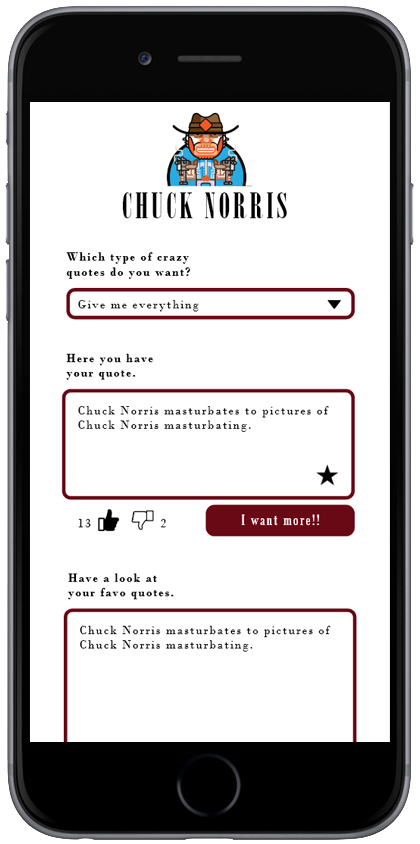
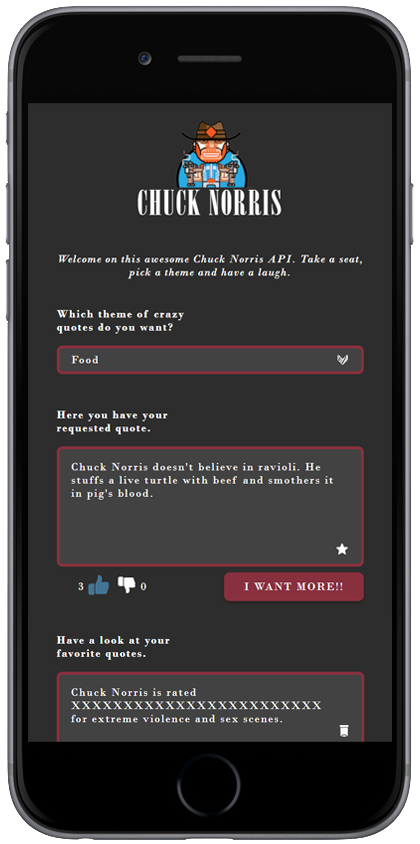
landingspage fixed & delete button added

diff --git a/Site/index.html b/Site/index.html
@@ -13,22 +13,24 @@
 </head>
 
 <body>
-    <div class="o-container c-app">
-        <header>
-            <img class="header-logo" src="./img/Logo.png" alt="Chuck Norris logo">
-            <h1 class="header-title">CHUCK NORRIS</h1>
-        </header>
-        <div class="c-subtitle">
-            <label for="categories" class="u-bold">Which type of crazy quotes do you want?</label>
-        </div>
-        <span class="c-custom-select">
-            <select class="c-form__select u-margin-bottom" name="categories" id="categories">
-                <option value="everything">Give me everything</option>
-            </select>
-            <svg class="c-custom-select__symbol" version="1.1" id="Capa_1" xmlns="http://www.w3.org/2000/svg"
-                xmlns:xlink="http://www.w3.org/1999/xlink" x="0px" y="0px" width="42.624px" height="42.625px"
-                viewBox="0 0 42.624 42.625" style="enable-background:new 0 0 42.624 42.625;" xml:space="preserve">
-                <path d="M38.259,1.387c-0.146,0.078-0.242,0.146-0.302,0.203c-0.003,0.003-0.011,0.006-0.014,0.009
+    <div class="o-container">
+        <div class="c-app">
+            <header>
+                <img class="header-logo" src="./img/Logo.png" alt="Chuck Norris logo">
+                <h1 class="header-title">CHUCK NORRIS</h1>
+            </header>
+            <p class="c-intro">Welcome on this awesome Chuck Norris API. Take a seat, pick a theme and have a laugh.</p>
+            <div class="c-subtitle">
+                <label for="categories" class="u-bold">Which theme of crazy quotes do you want?</label>
+            </div>
+            <span class="c-custom-select u-margin-bottom-sm">
+                <select class="c-form__select" name="categories" id="categories">
+                    <option value="everything">Give me everything</option>
+                </select>
+                <svg class="c-custom-select__symbol" version="1.1" id="Capa_1" xmlns="http://www.w3.org/2000/svg"
+                    xmlns:xlink="http://www.w3.org/1999/xlink" x="0px" y="0px" width="42.624px" height="42.625px"
+                    viewBox="0 0 42.624 42.625" style="enable-background:new 0 0 42.624 42.625;" xml:space="preserve">
+                    <path d="M38.259,1.387c-0.146,0.078-0.242,0.146-0.302,0.203c-0.003,0.003-0.011,0.006-0.014,0.009
 			c-4.34,4.343-8.68,8.686-13.02,13.027c-0.952,0.952-1.905,1.905-2.857,2.858c-0.992,0.993-0.4,0.594-0.656,0.337
 			c-2.052-2.053-4.104-4.104-6.155-6.157c-2.611-2.612-5.224-5.227-7.836-7.84C6.62,3.026,4.917,0.574,3.531,0.712
 			C-1.565,1.219,0.354,8.444,0.354,12.14c0,3.001,0,6.002,0,9.003c0,1.549,1.934,2.85,2.892,3.809
@@ -66,82 +68,83 @@
 			c1.189-2.427,2.391-4.847,3.61-7.257C40.429,18.982,40.429,19.684,40.429,20.386z M40.429,14.158
 			c-2.664,5.132-5.231,10.317-7.757,15.526c-1.027,1.029-2.058,2.059-3.086,3.088c0.172-0.353,0.359-0.705,0.522-0.959
 			c3.83-6.004,7.205-12.301,10.32-18.725C40.429,13.445,40.429,13.801,40.429,14.158z" />
-            </svg>
+                </svg>
 
-        </span>
-        <div class="c-subtitle">
-            <p for="text-field" class="u-bold">Here you have your requested quote.</p>
-        </div>
-        <div class="c-text-field c-text-field__response u-margin-bottons-xs">
-            <p id="quote-field"></p>
-            <div class="c-text-field__star">
-                <input class="o-hide-accessible c-like__input" type="checkbox" id="star">
-                <label class="c-like__label" for="star">
-                    <svg class="c-like__symbol" height="1rem" width="1rem" viewBox="0 -10 511.98685 511"
-                        xmlns="http://www.w3.org/2000/svg">
-                        <path
-                            d="m510.652344 185.902344c-3.351563-10.367188-12.546875-17.730469-23.425782-18.710938l-147.773437-13.417968-58.433594-136.769532c-4.308593-10.023437-14.121093-16.511718-25.023437-16.511718s-20.714844 6.488281-25.023438 16.535156l-58.433594 136.746094-147.796874 13.417968c-10.859376 1.003906-20.03125 8.34375-23.402344 18.710938-3.371094 10.367187-.257813 21.738281 7.957031 28.90625l111.699219 97.960937-32.9375 145.089844c-2.410156 10.667969 1.730468 21.695313 10.582031 28.09375 4.757813 3.4375 10.324219 5.1875 15.9375 5.1875 4.839844 0 9.640625-1.304687 13.949219-3.882813l127.46875-76.183593 127.421875 76.183593c9.324219 5.609376 21.078125 5.097657 29.910156-1.304687 8.855469-6.417969 12.992187-17.449219 10.582031-28.09375l-32.9375-145.089844 111.699219-97.941406c8.214844-7.1875 11.351563-18.539063 7.980469-28.925781zm0 0" />
-                    </svg>
-                </label>
+            </span>
+            <div class="c-subtitle">
+                <p for="text-field" class="u-bold">Here you have your requested quote.</p>
             </div>
-        </div>
-        <div class="c-form__textarea-grid u-margin-bottom">
-            <p class="c-form__like-text" id="likeText">
-                
-            </p>
-            <div class="c-form__grid-like">
-                <input class="o-hide-accessible c-like__input" type="checkbox" id="like">
-                <label class="c-like__label" for="like">
-                    <svg class="c-like__symbol" version="1.1" id="Capa_1" xmlns="http://www.w3.org/2000/svg"
-                        xmlns:xlink="http://www.w3.org/1999/xlink" x="0px" y="0px" viewBox="0 0 512 512"
-                        style="enable-background:new 0 0 512 512;" xml:space="preserve">
-                        <g>
-                            <path d="M53.333,224C23.936,224,0,247.936,0,277.333V448c0,29.397,23.936,53.333,53.333,53.333h64
-			                        c12.011,0,23.061-4.053,32-10.795V224H53.333z" />
-                        </g>
-                        <g>
+            <div class="c-text-field c-text-field__response u-margin-bottons-xs">
+                <p id="quote-field"></p>
+                <div class="c-text-field__star">
+                    <input class="o-hide-accessible c-like__input" type="checkbox" id="star">
+                    <label class="c-like__label" for="star">
+                        <svg class="c-like__symbol" height="1rem" width="1rem" viewBox="0 -10 511.98685 511"
+                            xmlns="http://www.w3.org/2000/svg">
                             <path
-                                d="M512,304c0-12.821-5.077-24.768-13.888-33.579c9.963-10.901,15.04-25.515,13.653-40.725
+                                d="m510.652344 185.902344c-3.351563-10.367188-12.546875-17.730469-23.425782-18.710938l-147.773437-13.417968-58.433594-136.769532c-4.308593-10.023437-14.121093-16.511718-25.023437-16.511718s-20.714844 6.488281-25.023438 16.535156l-58.433594 136.746094-147.796874 13.417968c-10.859376 1.003906-20.03125 8.34375-23.402344 18.710938-3.371094 10.367187-.257813 21.738281 7.957031 28.90625l111.699219 97.960937-32.9375 145.089844c-2.410156 10.667969 1.730468 21.695313 10.582031 28.09375 4.757813 3.4375 10.324219 5.1875 15.9375 5.1875 4.839844 0 9.640625-1.304687 13.949219-3.882813l127.46875-76.183593 127.421875 76.183593c9.324219 5.609376 21.078125 5.097657 29.910156-1.304687 8.855469-6.417969 12.992187-17.449219 10.582031-28.09375l-32.9375-145.089844 111.699219-97.941406c8.214844-7.1875 11.351563-18.539063 7.980469-28.925781zm0 0" />
+                        </svg>
+                    </label>
+                </div>
+            </div>
+            <div class="c-form__textarea-grid u-margin-bottom">
+                <p class="c-form__like-text" id="likeText">
+
+                </p>
+                <div class="c-form__grid-like">
+                    <input class="o-hide-accessible c-like__input" type="checkbox" id="like">
+                    <label class="c-like__label" for="like">
+                        <svg class="c-like__symbol" version="1.1" id="Capa_1" xmlns="http://www.w3.org/2000/svg"
+                            xmlns:xlink="http://www.w3.org/1999/xlink" x="0px" y="0px" viewBox="0 0 512 512"
+                            style="enable-background:new 0 0 512 512;" xml:space="preserve">
+                            <g>
+                                <path d="M53.333,224C23.936,224,0,247.936,0,277.333V448c0,29.397,23.936,53.333,53.333,53.333h64
+			                        c12.011,0,23.061-4.053,32-10.795V224H53.333z" />
+                            </g>
+                            <g>
+                                <path
+                                    d="M512,304c0-12.821-5.077-24.768-13.888-33.579c9.963-10.901,15.04-25.515,13.653-40.725
                                     c-2.496-27.115-26.923-48.363-55.637-48.363H324.352c6.528-19.819,16.981-56.149,16.981-85.333c0-46.272-39.317-85.333-64-85.333
                                     c-22.165,0-37.995,12.48-38.677,12.992c-2.517,2.027-3.989,5.099-3.989,8.341v72.341l-61.44,133.099l-2.56,1.301v228.651
                                     C188.032,475.584,210.005,480,224,480h195.819c23.232,0,43.563-15.659,48.341-37.269c2.453-11.115,1.024-22.315-3.861-32.043
                                     c15.765-7.936,26.368-24.171,26.368-42.688c0-7.552-1.728-14.784-5.013-21.333C501.419,338.731,512,322.496,512,304z" />
-                        </g>
-                    </svg>
-                </label>
-            </div>
-            <div class="c-form__grid-like">
-                <input class="o-hide-accessible c-like__input" type="checkbox" id="dislike">
-                <label class="c-like__label" for="dislike">
-                    <svg class="c-like__symbol" version="1.1" id="Capa_1" xmlns="http://www.w3.org/2000/svg"
-                        xmlns:xlink="http://www.w3.org/1999/xlink" x="0px" y="0px" viewBox="0 0 512 512"
-                        style="enable-background:new 0 0 512 512;" xml:space="preserve">
-                        <g>
-                            <path d="M117.333,10.667h-64C23.936,10.667,0,34.603,0,64v170.667C0,264.064,23.936,288,53.333,288h96V21.461
+                            </g>
+                        </svg>
+                    </label>
+                </div>
+                <div class="c-form__grid-like">
+                    <input class="o-hide-accessible c-like__input" type="checkbox" id="dislike">
+                    <label class="c-like__label" for="dislike">
+                        <svg class="c-like__symbol" version="1.1" id="Capa_1" xmlns="http://www.w3.org/2000/svg"
+                            xmlns:xlink="http://www.w3.org/1999/xlink" x="0px" y="0px" viewBox="0 0 512 512"
+                            style="enable-background:new 0 0 512 512;" xml:space="preserve">
+                            <g>
+                                <path d="M117.333,10.667h-64C23.936,10.667,0,34.603,0,64v170.667C0,264.064,23.936,288,53.333,288h96V21.461
                            C140.395,14.72,129.344,10.667,117.333,10.667z" />
-                        </g>
-                        <g>
-                            <path
-                                d="M512,208c0-18.496-10.581-34.731-26.347-42.667c3.285-6.549,5.013-13.803,5.013-21.333
+                            </g>
+                            <g>
+                                <path
+                                    d="M512,208c0-18.496-10.581-34.731-26.347-42.667c3.285-6.549,5.013-13.803,5.013-21.333
                            c0-18.517-10.603-34.752-26.368-42.688c4.885-9.728,6.315-20.928,3.861-32.043C463.381,47.659,443.051,32,419.819,32H224
                            c-13.995,0-35.968,4.416-53.333,12.608v228.651l2.56,1.301l61.44,133.12V480c0,3.243,1.472,6.315,3.989,8.341
                            c0.683,0.512,16.512,12.992,38.677,12.992c24.683,0,64-39.061,64-85.333c0-29.184-10.453-65.515-16.981-85.333h131.776
                            c28.715,0,53.141-21.248,55.637-48.363c1.387-15.211-3.691-29.824-13.653-40.725C506.923,232.768,512,220.821,512,208z" />
-                        </g>
-                    </svg>
-                </label>
-            </div>
-            <p class="c-form__dislike-text" id="dislikeText">
-                
-            </p>
-            <div></div>
-            <button id="buttonRefresh" type="button" class="c-form__grid-button">I WANT MORE!!</button>
-        </div>
-        <div class="c-subtitle">
-            <p class="u-bold">Have a look at your favorite quotes.</p>
-        </div>
-        <div class="c-text-field" id="favo-quotes">
+                            </g>
+                        </svg>
+                    </label>
+                </div>
+                <p class="c-form__dislike-text" id="dislikeText">
 
+                </p>
+                <div></div>
+                <button id="buttonRefresh" type="button" class="c-form__grid-button">I WANT MORE!!</button>
+            </div>
+            <div class="c-subtitle">
+                <p class="u-bold">Have a look at your favorite quotes.</p>
+            </div>
+            <div class="c-text-field c-text-field__favo" id="favo-quotes">
+
+            </div>
         </div>
     </div>
 </body>

diff --git a/Site/css/style.css b/Site/css/style.css
@@ -4,7 +4,7 @@
     --global-font-fam: 'Bodoni MT', sans-serif;
 
     /* whitespace */
-    --global-baseline: 0.5em;
+    --global-baseline: 0.5rem;
     --global-whitespace-xxs: var(--global-baseline); /* = 8px */
     --global-whitespace-xs: calc(var(--global-baseline) * 2); /* = 16px */
     --global-whitespace-sm: calc(var(--global-baseline) * 3); /* = 24px */
@@ -15,8 +15,8 @@
     /* colors */
     --global-alpa: #89303e;
     --global-alpa-light: #a14252;
-    --global-beta: #3d5a6e;
-    --global-beta-light: #4a98cf;
+    --global-beta: #447494;
+    --global-beta-x-light: #4a98cf;
     --global-gray: #2b2a2a;
     --global-gray-light: #424242;
 
@@ -48,7 +48,7 @@ html{
 
 ::selection {
     color: white;
-    background: var(--global-beta-light);
+    background: var(--global-beta-x-light);
 }
 
 .o-container{
@@ -70,11 +70,12 @@ header{
 
 .header-title{
     font-family: 'Bodoni MT Poster', sans-serif;
+    text-align: center;
     font-size: 3em;
     font-weight: 400;
     line-height: 0.9em;
     margin-top: 0;
-    margin-bottom: var(--global-whitespace-sm);
+    margin-bottom: var(--global-whitespace-md);
     letter-spacing: 0.05em;
 }
 
@@ -114,6 +115,13 @@ header{
         margin-top: 3em;
         margin-bottom: 3em;
     }
+}
+
+.c-intro{
+    text-align: center;
+    margin-bottom: var(--global-whitespace-lg);
+    letter-spacing: 1px;
+    font-style: italic;
 }
 
 .c-subtitle{
@@ -201,12 +209,37 @@ header{
     align-items: center;
 }
 
+.c-text-field__favo{
+    display: grid;
+    grid-template-columns: auto 1rem;
+    column-gap: 0.5rem;
+}
+
+.c-field__favo-div{
+    display: flex;
+    align-items: center;
+    justify-content: center;
+}
+
+.c-field__favo-button{
+    padding: 0;
+    margin: 0;
+    background-color: inherit;
+    outline: none;
+    border: none;
+    cursor: pointer;
+    transition: var(--global-transition)
+}
+
+.c-field__favo-button:focus {
+    fill: var(--global-beta);
+}
+
 /* Like button */
 
 .c-like__symbol {
 	position: relative;
 	width: 1.5rem;
-	fill: var( --global-color-neutral-x-light );
 	transform: scale(1);
 	transition: transform .5s cubic-bezier(0.175, 0.885, 0.32, 2.275);
 	will-change: transform;
@@ -259,9 +292,13 @@ header{
 }
 
 .u-margin-bottom{
-    margin-bottom: 3em;
+    margin-bottom: 4rem;
+}
+
+.u-margin-bottom-sm{
+    margin-bottom: 3rem;
 }
 
 .u-margin-bottons-xs{
-    margin-bottom: 0.5em;
+    margin-bottom: 0.5rem;
 }

diff --git a/Site/script/script.js b/Site/script/script.js
@@ -10,6 +10,7 @@
 	let docDislike
 	let docLikeText
 	let docDislikeText
+	let docFavoButtons
 
 	function capitalizeFirstLetter(string) {
 		return string.charAt(0).toUpperCase() + string.slice(1);
@@ -51,9 +52,24 @@
 		if (storedQuotes != null) {
 			let quotesHTML = "";
 			for (quote of storedQuotes) {
-				quotesHTML += `<p id="quote-field">${quote.value}</p>`;
+				quotesHTML += `<p style="grid-column: 1";>${quote.value}</p>`;
+				quotesHTML += `<div class="c-field__favo-div"><button style="grid-column: 0"; value="${quote.id}" class="c-field__favo-button"><svg version="1.1" xmlns="http://www.w3.org/2000/svg" xmlns:xlink="http://www.w3.org/1999/xlink" x="0px" y="0px"
+				width="1rem" height="1rem" viewBox="0 0 488.936 488.936" style="enable-background:new 0 0 488.936 488.936;"
+				xml:space="preserve">
+				   <path d="M381.16,111.948H107.376c-6.468,0-12.667,2.819-17.171,7.457c-4.504,4.649-6.934,11.014-6.738,17.477l9.323,307.69
+					   c0.39,12.92,10.972,23.312,23.903,23.312h20.136v-21.012c0-24.121,19.368-44.049,43.488-44.049h127.896
+					   c24.131,0,43.893,19.928,43.893,44.049v21.012h19.73c12.933,0,23.52-10.346,23.913-23.268l9.314-307.7
+					   c0.195-6.462-2.234-12.863-6.738-17.513C393.821,114.767,387.634,111.948,381.16,111.948z"/>
+				   <path d="M309.166,435.355H181.271c-6.163,0-11.915,4.383-11.915,11.516v30.969c0,6.672,5.342,11.096,11.915,11.096h127.895
+					   c6.323,0,11.366-4.773,11.366-11.096v-30.969C320.532,440.561,315.489,435.355,309.166,435.355z"/>
+				   <path d="M427.696,27.106C427.696,12.138,415.563,0,400.591,0H88.344C73.372,0,61.239,12.138,61.239,27.106v30.946
+					   c0,14.973,12.133,27.106,27.105,27.106H400.59c14.973,0,27.105-12.133,27.105-27.106L427.696,27.106L427.696,27.106z"/>
+		   </svg></button></div>`;
 			}
 			docFavoQuotes.innerHTML = quotesHTML;
+
+			docFavoButtons = document.querySelectorAll(".c-field__favo-button");
+			addEventlistenersFavoButtons();
 		}
 	}
 
@@ -228,6 +244,17 @@
 		docCategories.onchange = function () {
 			selectedCategory = docCategories.value;
 			getRandomQuote();
+		}
+	}
+
+	const addEventlistenersFavoButtons = () => {
+		for (let docFavoButton of docFavoButtons) {
+			docFavoButton.addEventListener("click", function (event) {
+				setTimeout(() => { 
+					deleteQuote(this.value);
+					checkFavo(); 
+				}, 300);
+			});
 		}
 	}
 

diff --git a/LandingsPage/index.html b/LandingsPage/index.html
@@ -21,12 +21,13 @@
         </div>
         <div class="c-text">
             <h1>CHUCK NORRIS</h1>
-            <p>Tap in the crazy mind of the famous maniac Chuck Norris.</p>
+            <p class="u-italic">Tap in the crazy mind of the famous maniac Chuck Norris.</p>
             <p>This is the place to read, like and share all good and awful Chuck Norris quotes. Be aware,
                 explicit and nasty content incoming.</p>
+            <p class="u-margin-top">Be the first in line to discover this new Chuck Norris application where you can like, save and share the best Chuck Norris quotes.</p>
             <form action="#" class="c-text__email">
-                <input class="c-text__email-input" type="email" name="E-MAIL" id="email-input"
-                    placeholder="E-MAIL" required>
+                <input class="c-text__email-input" type="email" name="E-MAIL" id="email-input" placeholder="E-MAIL"
+                    required>
                 <input class="c-text__email-submit" type="image" name="submit"
                     src="./img/plane+airline+airplane+origame+paper+paper+plane+send+icon-1320086457003410702.png"
                     alt="Submit" />

diff --git a/LandingsPage/css/style.css b/LandingsPage/css/style.css
@@ -86,7 +86,7 @@ h1{
 }
 
 .c-text__email{
-    margin-top: 5rem;
+    margin-top: 1rem;
     display: flex;
 }
 
@@ -158,6 +158,14 @@ h1{
 
 .u-download__first{
     margin-right: 4%;
+}
+
+.u-margin-top{
+    margin-top: 2.5rem;
+}
+
+.u-italic{
+    font-style: italic;
 }
 
 /*========================= media query's ===================*/
